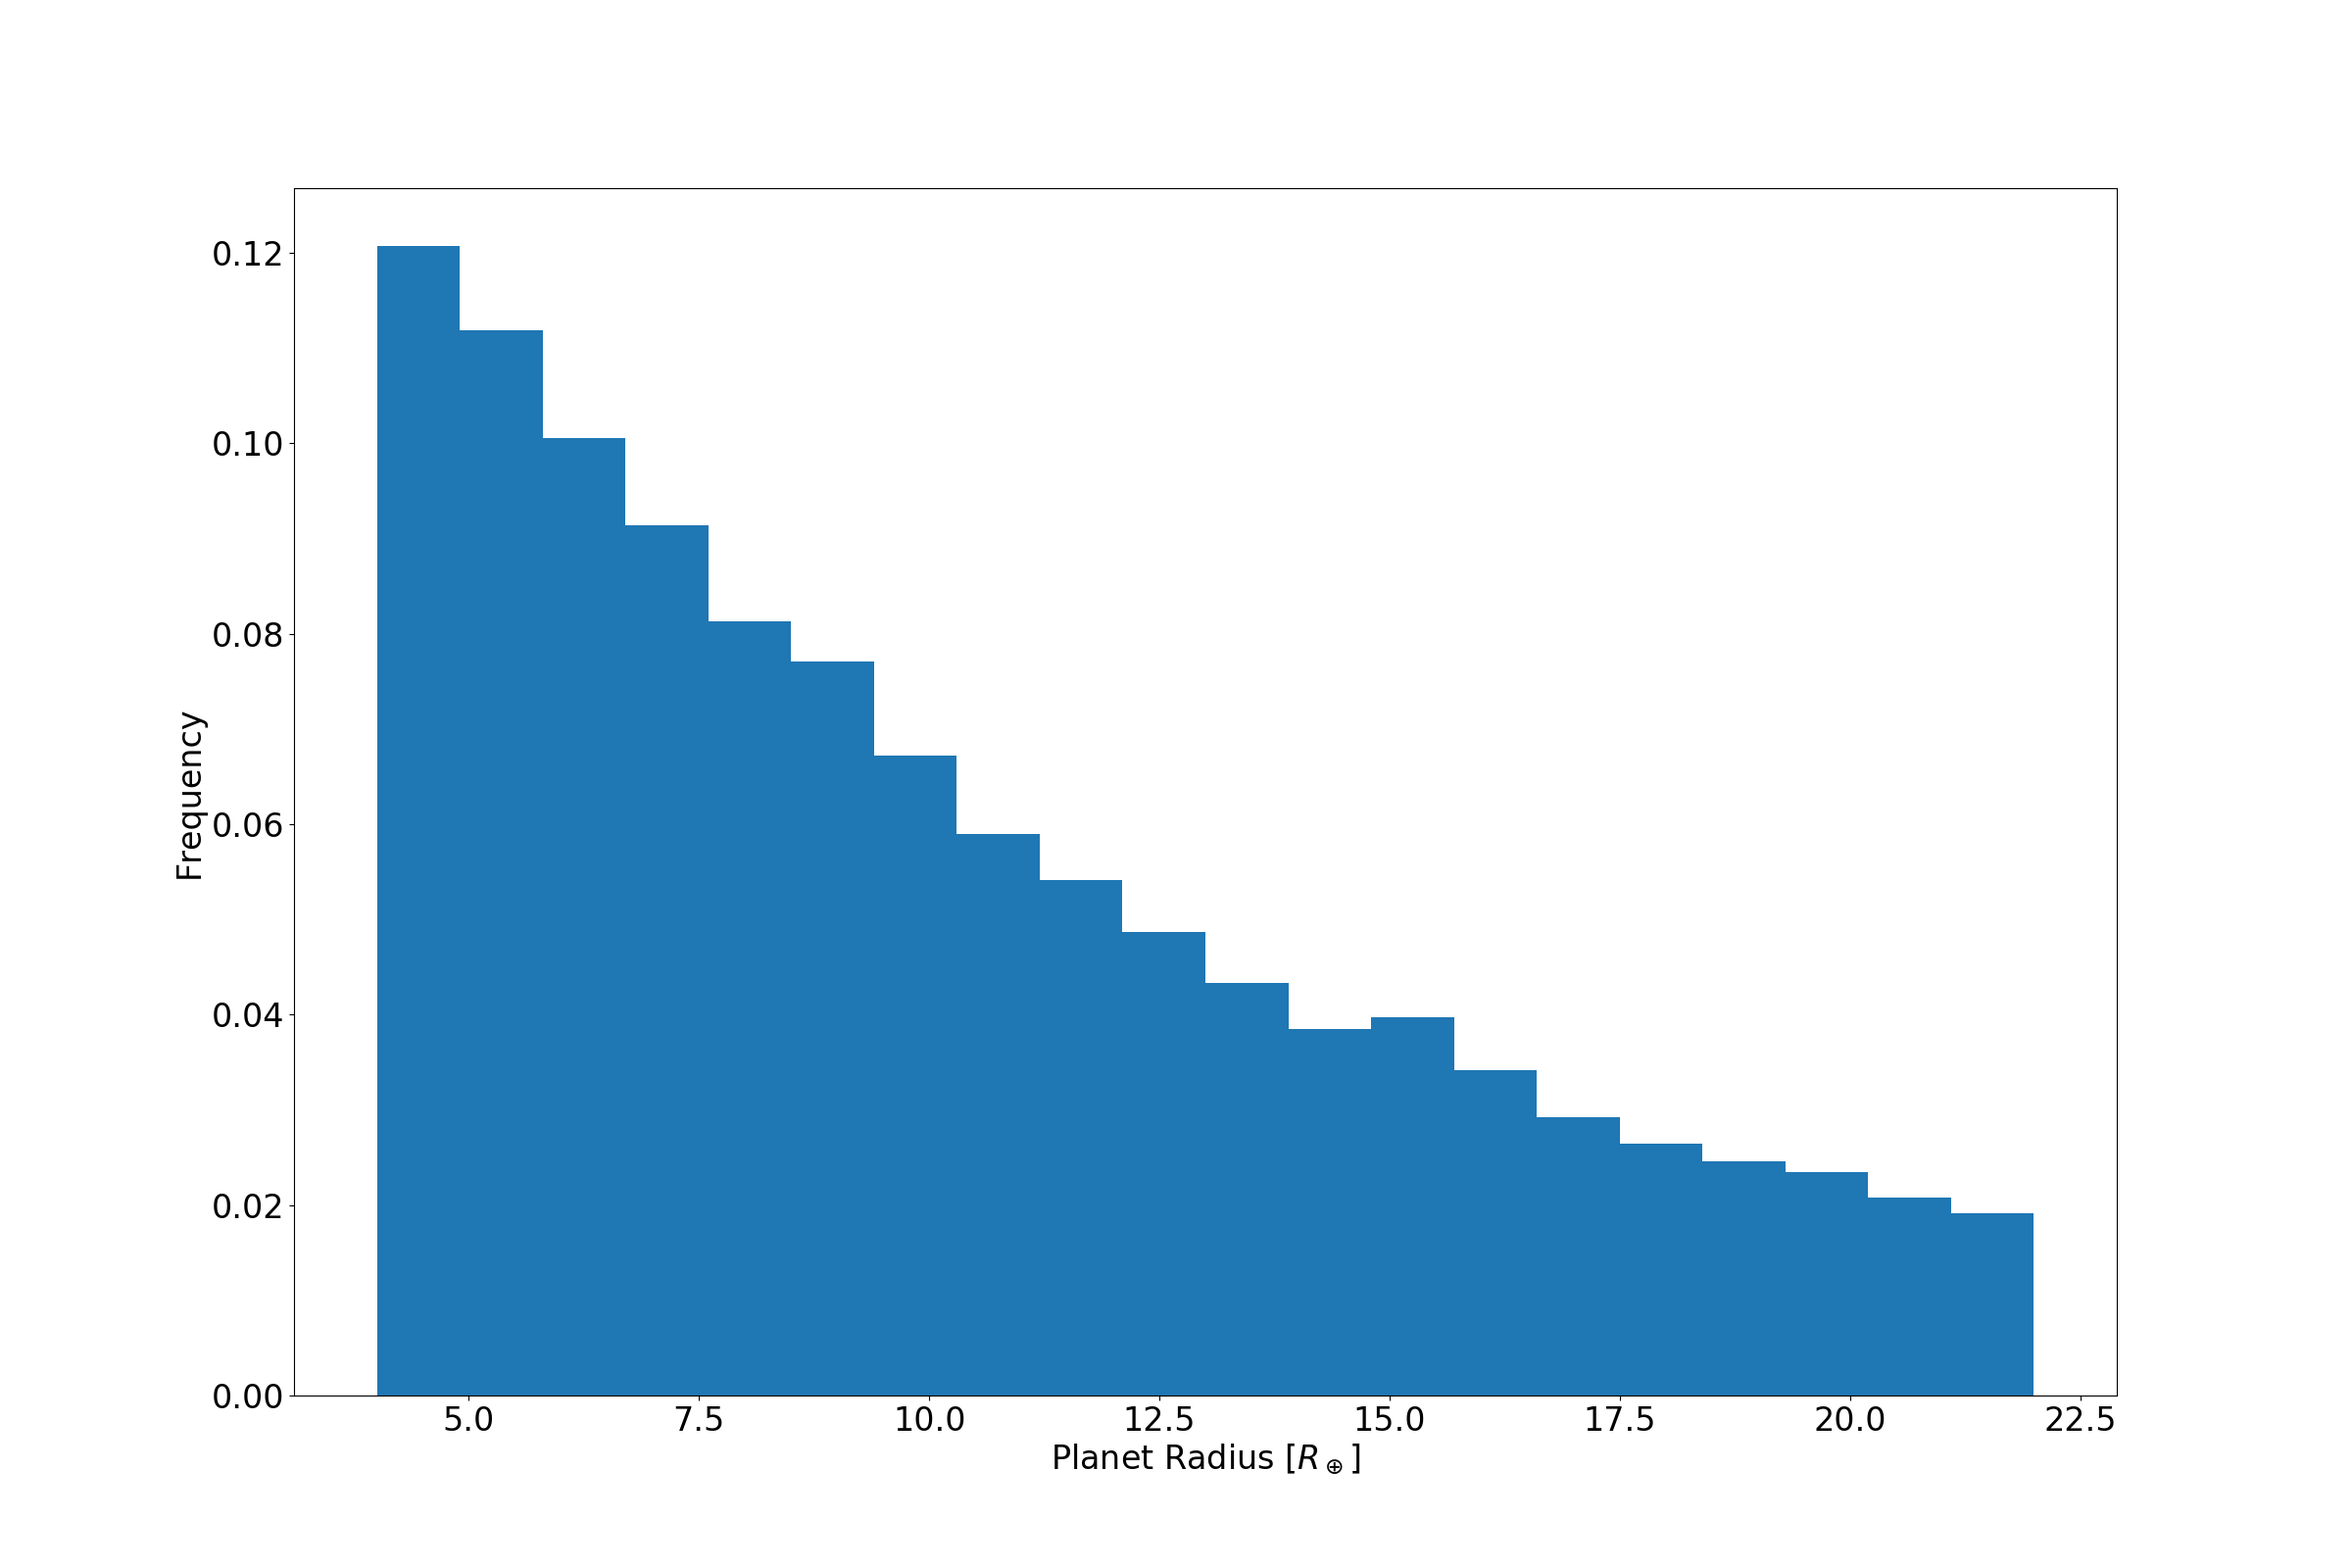
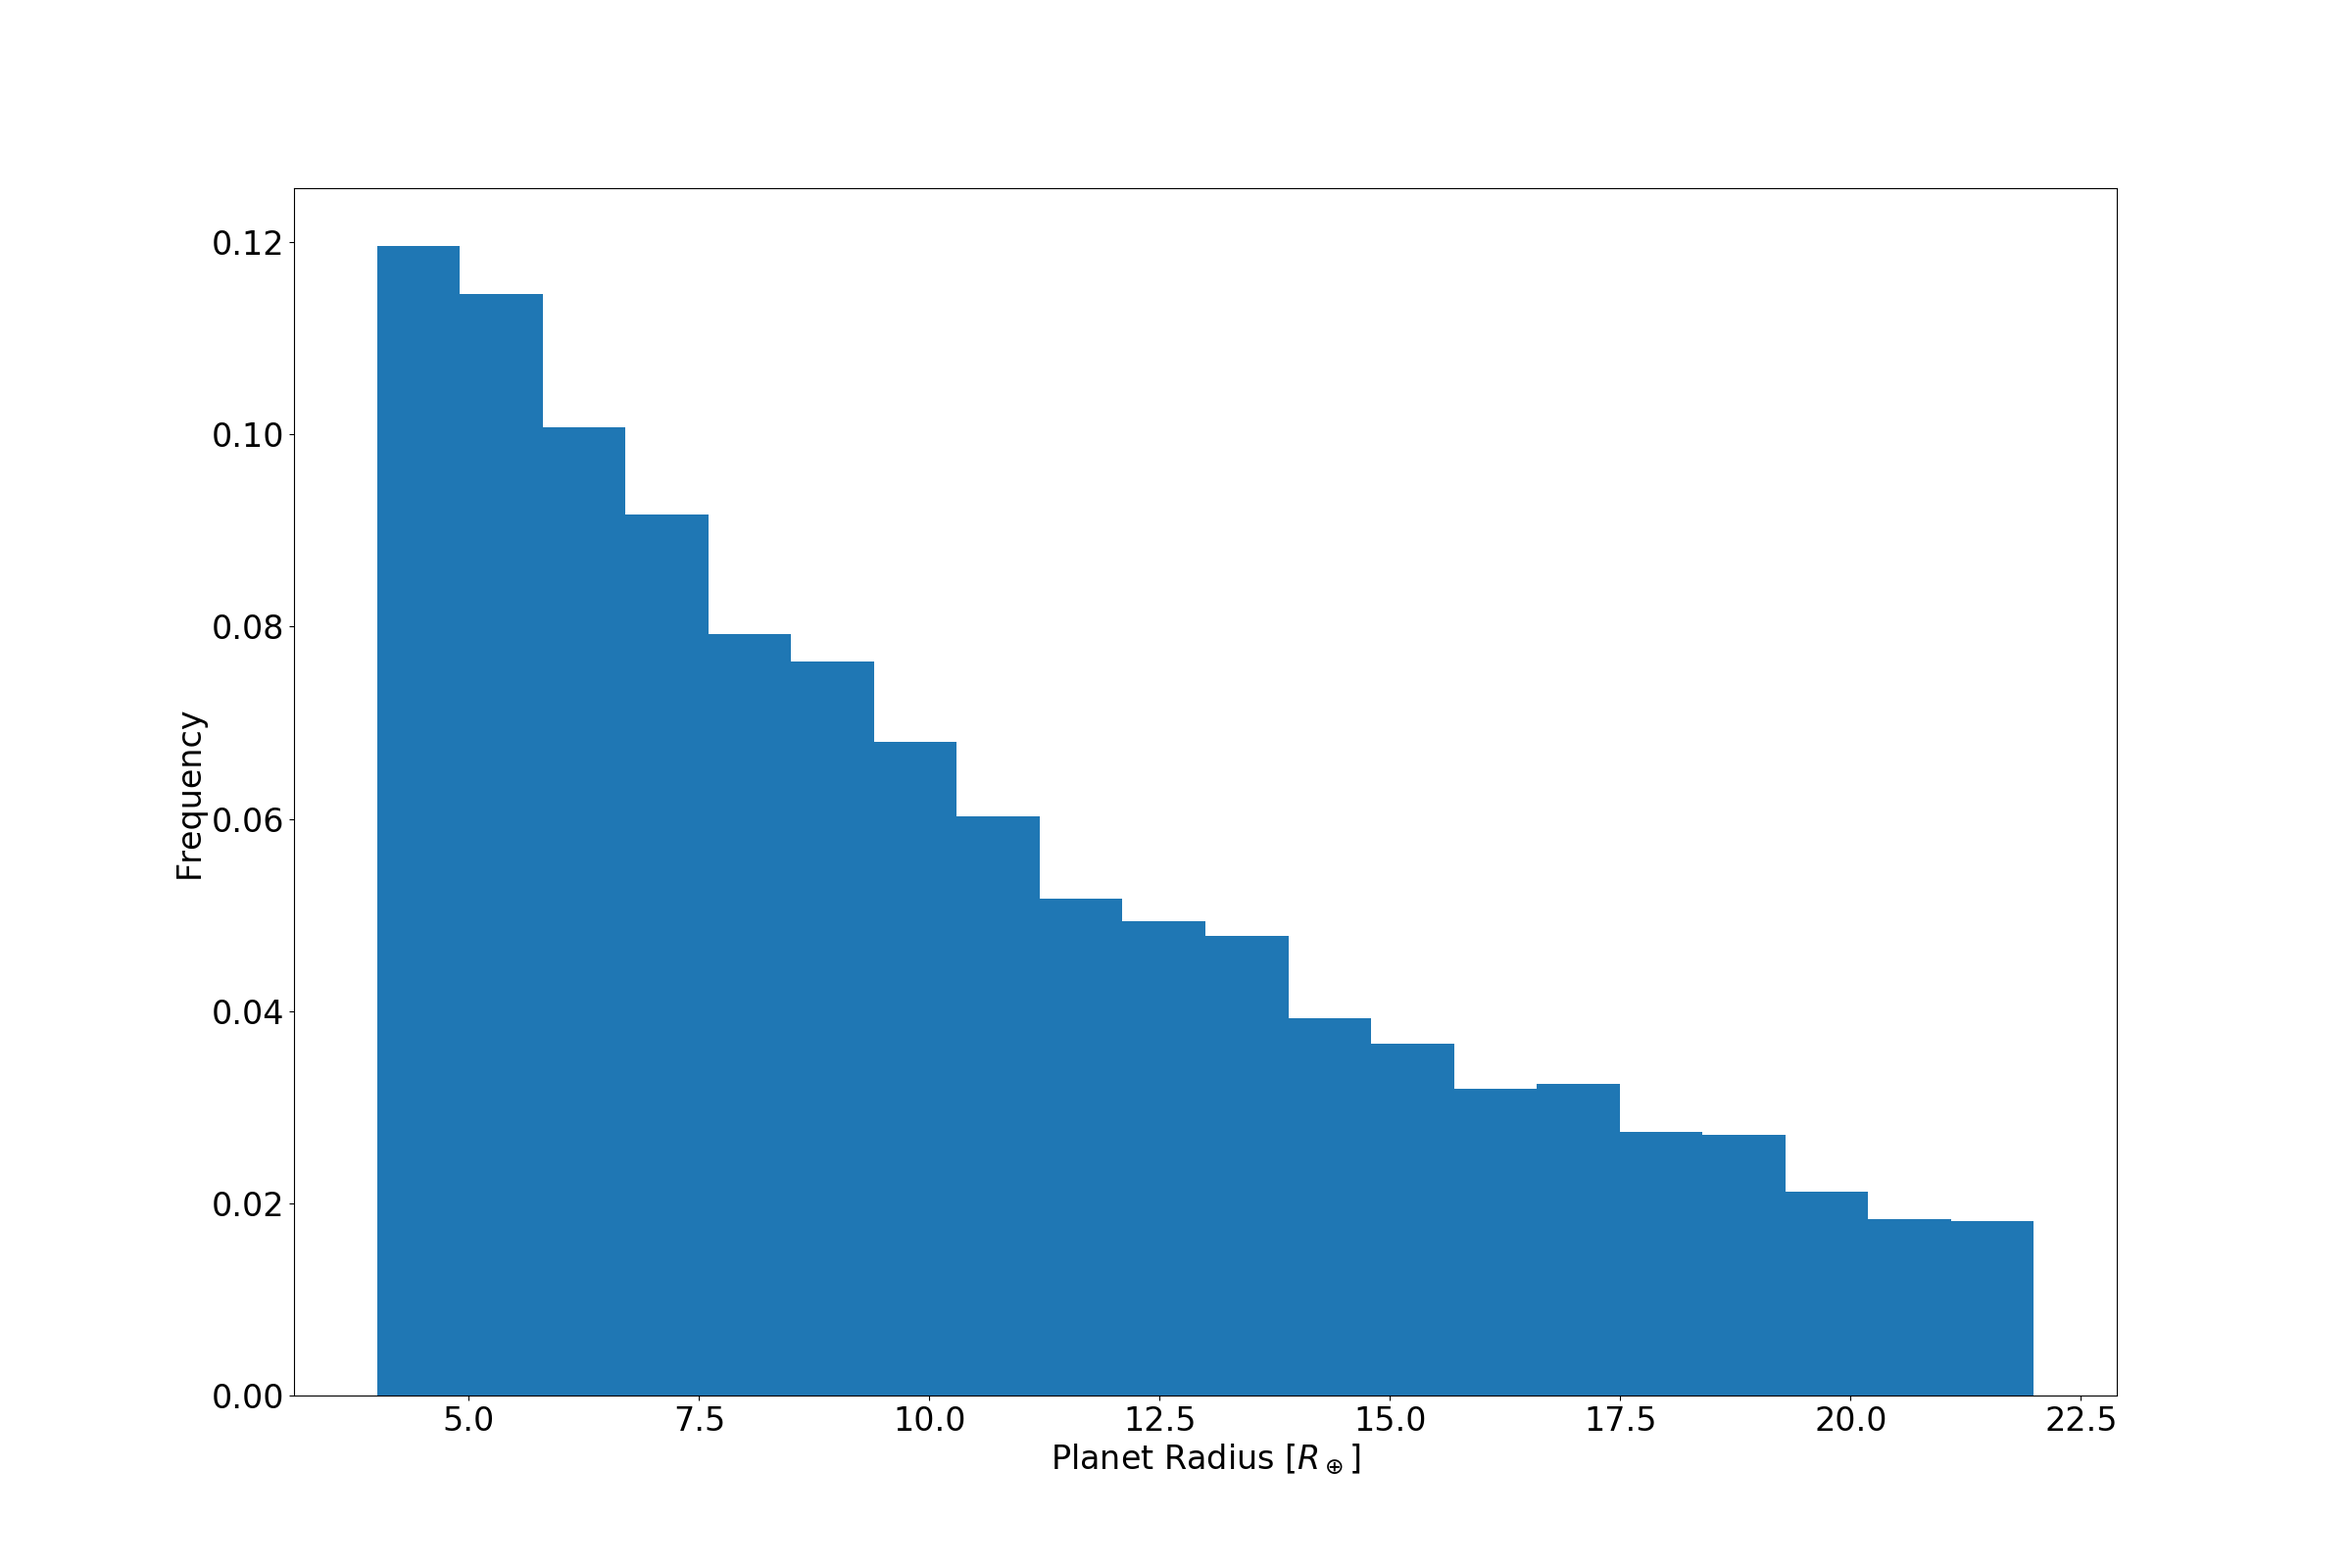
Changed scale

diff --git a/tess-yield/tess-yield.py b/tess-yield/tess-yield.py
@@ -18,10 +18,10 @@ G = 6.6743e-8
 
 # Execution flags
 star_population 			= 0
-planet_seeding 				= 0
-plot_hist 					= 0
+planet_seeding 				= 1
+plot_hist 					= 1
 plot_hr 					= 0
-plot_result_distribution	= 1
+plot_result_distribution	= 0
 
 # Star data: mass, radius, teff, logg, ra, dec, observed_days, has_planet
 # Planet data: planet_mass, planet_radius, period, has_transit, t_duration
@@ -113,12 +113,12 @@ if planet_seeding:
 	_, _, _, mass, radius, teff, logg, observed_days = np.loadtxt("data/star_sample.dat", unpack=True)
 
 	# Rates
-	planet_rate = 0.05
+	planet_rate = 0.1
 	# Seed planet
 	has_planet = np.random.uniform(0.0, 1.0, mass.size) < planet_rate
 
-	# Planet radius distribution.
-	lower, upper, scale = 4, 22, 9
+	# Planet radius distribution
+	lower, upper, scale = 4, 22, 18
 	X = stats.truncexpon(b=(upper-lower)/scale, loc=lower, scale=scale)
 
 	invalid_planets = np.copy(has_planet)
@@ -175,7 +175,6 @@ if planet_seeding:
 
 	#---------------------------------------------------------
 
-	"""
 	print("Number of stars with seeded planets: " + str(sum(has_planet) * 2))
 	print("Percentage of stars with seeded planets: " + str(sum(has_planet)*1.0 / mass.size))
 	print("Number of stars with transiting planets: " + str(sum(transiting_planet) * 2))
@@ -183,7 +182,6 @@ if planet_seeding:
 
 	print("Number of detectable transiting planets: " + str(num_detectable*2))
 	print("Percentage of detectable planets from transiting planets: " + str(num_detectable/sum(transiting_planet)))
-	"""
 
 if plot_hist:
 	# PLots for all the planets
@@ -202,10 +200,10 @@ if plot_hist:
 	plt.savefig("figures/" + "all_planet_period.png")
 
 	plt.figure(3, figsize=(24,18), dpi=100)
-	plt.scatter(planet_radius, period, color="blue", s=1)
+	plt.scatter(planet_radius, np.log(period), color="blue", s=1)
 	plt.xlabel(r"Planet Radius [$R_\oplus$]", fontsize=24)
 	plt.ylabel(r"Planet Period [days]", fontsize=24)
-	plt.ylim([0, 100])
+	#plt.ylim([0, 100])
 	plt.tick_params(labelsize=24)
 	plt.savefig("figures/" + "all_period_radius.png")
 
